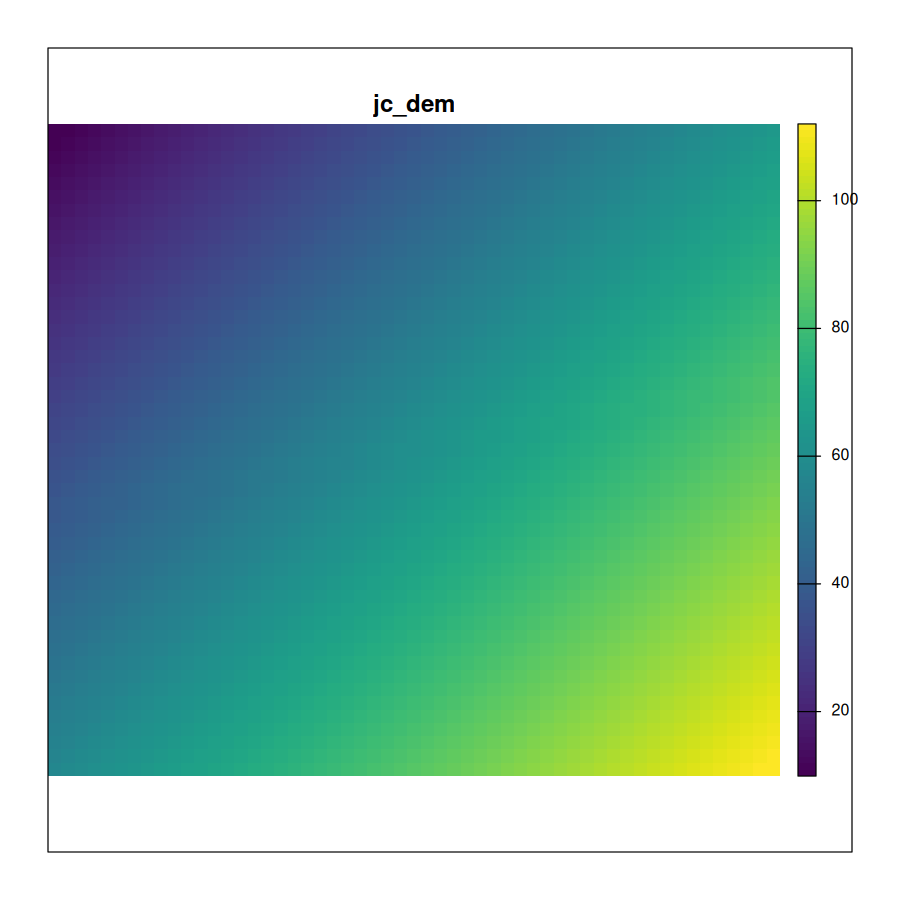
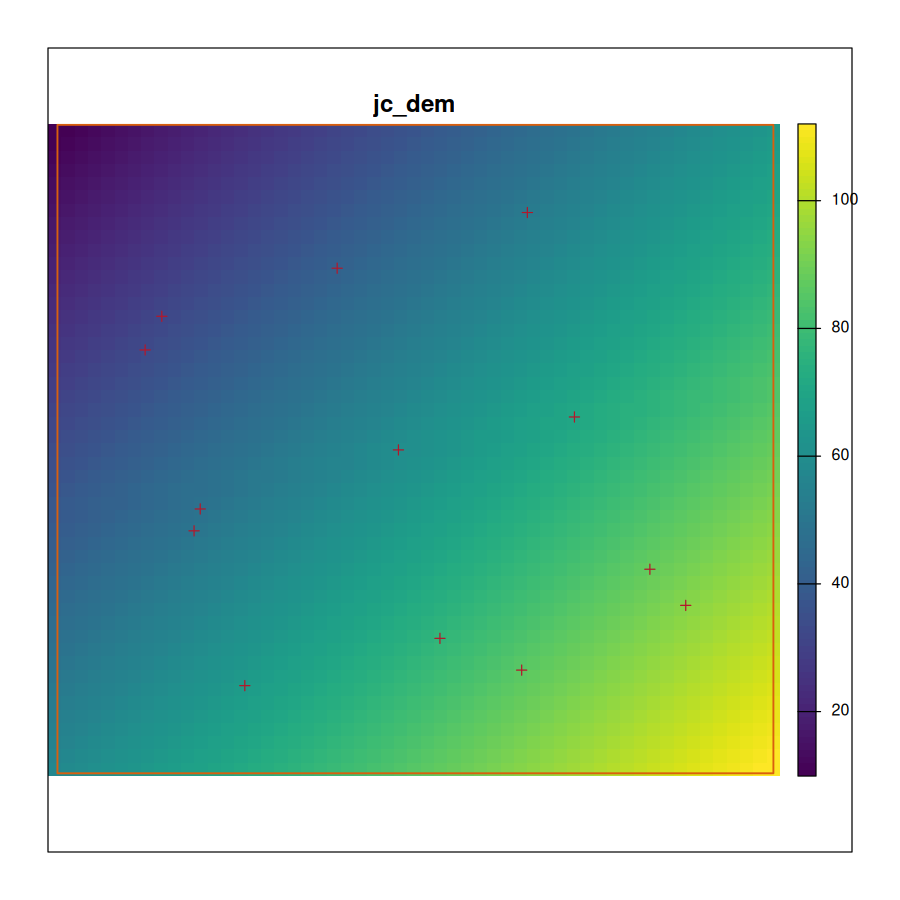
agent: feat(analysis): improve previews + enforce ordering

Changed region(s): [[0.0622, 0.1244, 0.8711, 0.8711]]

diff --git a/docs/log/WP-018a_2026-01-10_analysis-previews.md b/docs/log/WP-018a_2026-01-10_analysis-previews.md
@@ -4,7 +4,8 @@ Date: 2026-01-10
 
 ## Summary
 - Added quick-look PNG previews alongside AOI-clipped vector/raster outputs.
-- Previews are generated for each analysis layer to support rapid visual QA.
+- Vector previews colour by a categorical attribute (prefers `habitat`) and include AOI outline.
+- Raster previews overlay AOI and camera sites; multiband preview uses RGB composite (bands 1–3).
 
 ## Artefacts
 - Canonical run folder: `outputs/canonical_runs/WP-018a_2026-01-10_analysis-previews/`
@@ -16,9 +17,9 @@ Date: 2026-01-10
   - `jc_nbr.png`
 
 ## Sanity checks
-- Preview PNGs render without errors and align with AOI extent.
-- Multiband preview uses RGB composite (bands 1–3).
+- Vector preview shows two habitat classes with distinct colours and legend.
+- Raster previews align with camera sites; no apparent rotation.
 - Derived indices show expected gradients rather than flat/noisy output.
 
 ## Notes
-- Previews are intended for fast QC and are not publication figures.
+- Previews are intended for rapid QC and are not publication figures.

diff --git a/docs/AGENT_NOTES.md b/docs/AGENT_NOTES.md
@@ -206,3 +206,7 @@
 - 2026-01-10: Analysis layer preview PNGs.
   - Added quick-look PNG previews for analysis vectors/rasters (auto-generated beside outputs).
   - Updated output schema/manifest and added tests to ensure preview files are created.
+- 2026-01-10: Analysis preview overlays and derived-layer ordering guard.
+  - Vector previews now colour by an attribute (prefers `habitat`) with legend and AOI outline.
+  - Raster previews overlay AOI and camera sites for quick orientation checks.
+  - Added validation to ensure derived layers appear after their source_id.

diff --git a/docs/config_reference.md b/docs/config_reference.md
@@ -258,6 +258,9 @@ Resampling policy:
 - Categorical rasters use `near` (nearest neighbor).
 - Continuous rasters default to `bilinear`.
 
+Ordering note:
+- Derived layers must appear *after* their `source_id` in `analysis_layers`.
+
 ### `data.overview_map`
 
 - `output_path` (string, optional): output PNG path.
